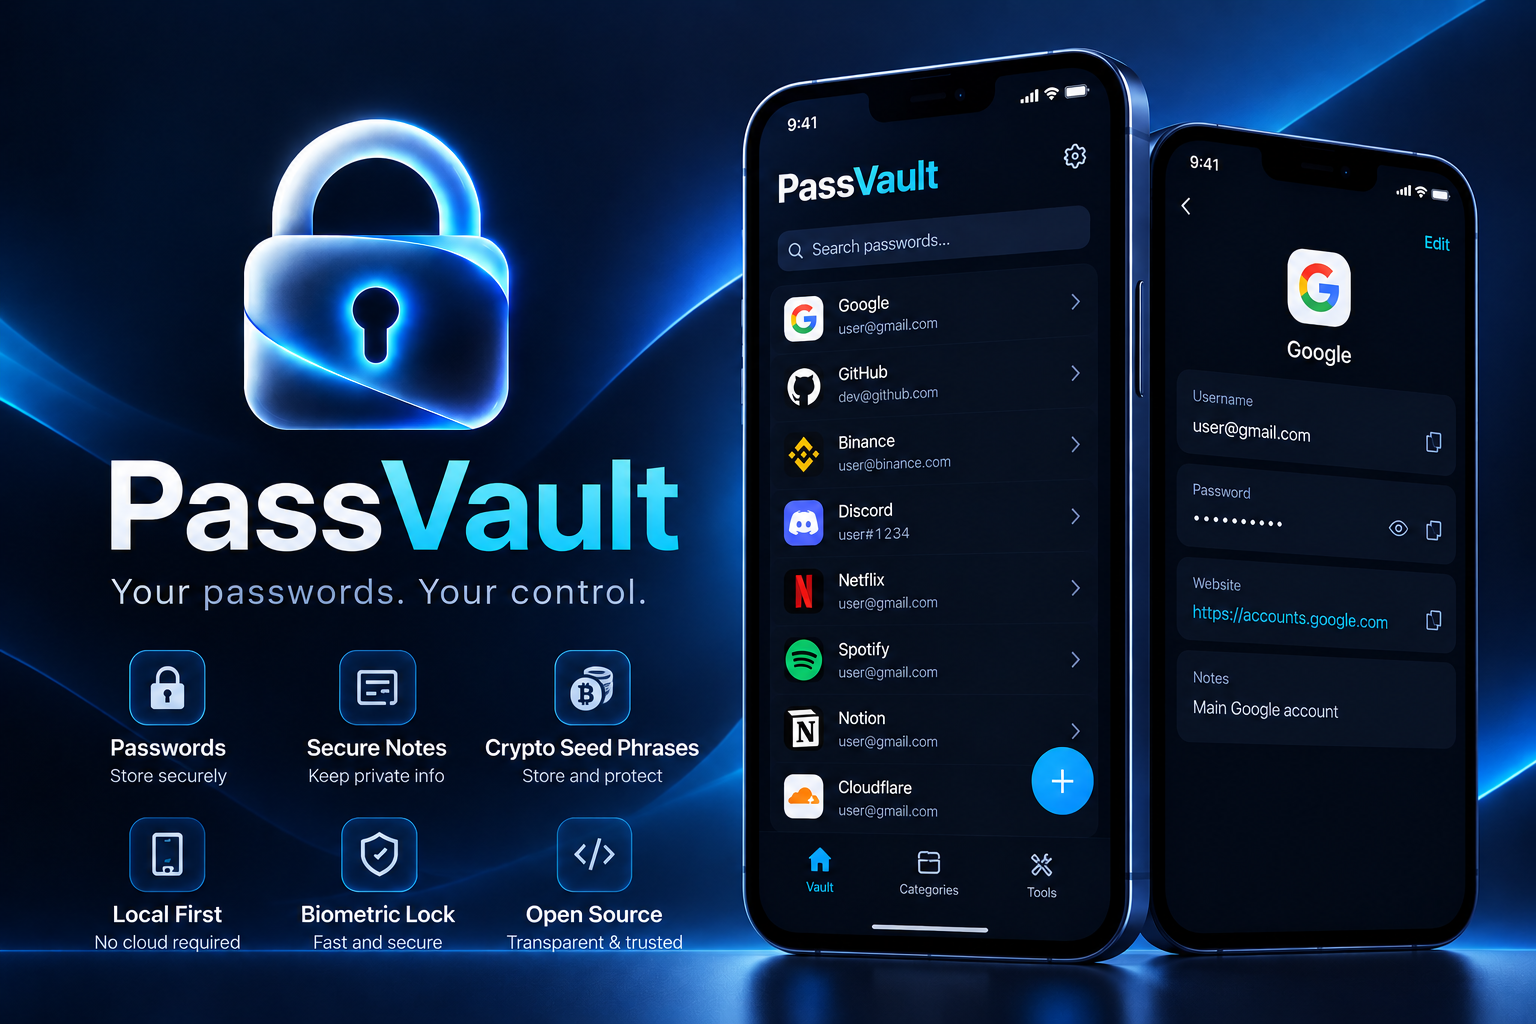
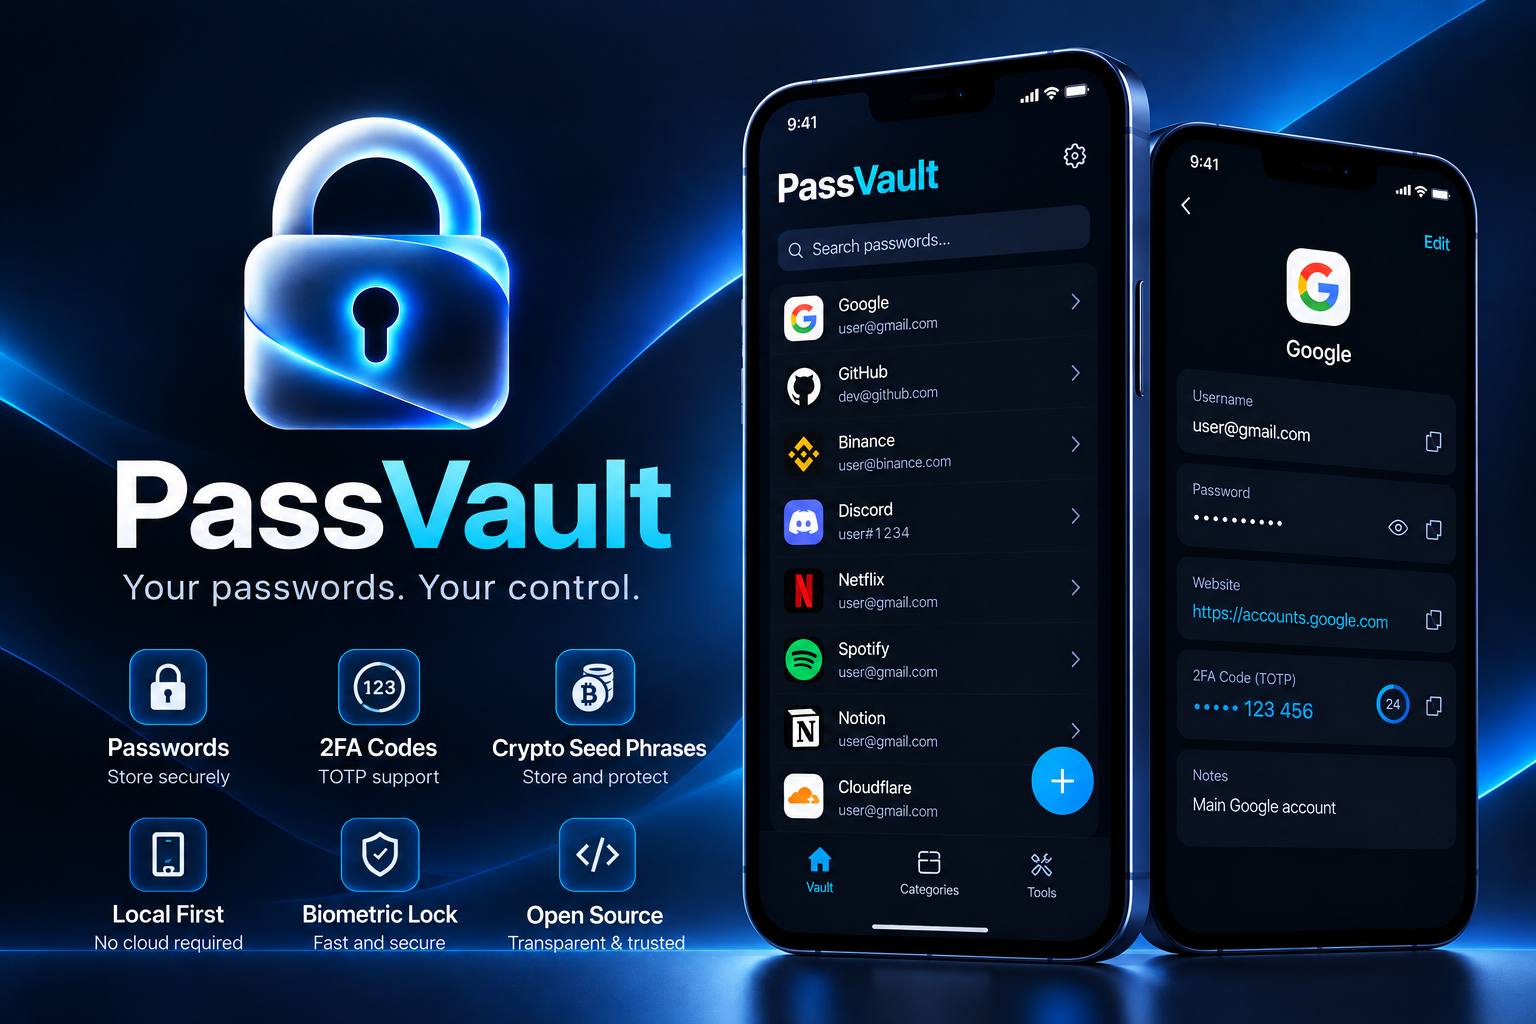
Update README for 2FA (#10)

diff --git a/README.md b/README.md
@@ -37,7 +37,7 @@ No account · No server · No analytics · No cloud sync
 
 ## 📑 Contents
 
-[✨ Features](#-features) · [📥 Download](#-download-android) · [🍎 Build for iOS](#-build-for-ios) · [🤖 Build for Android](#-build-for-android) · [🚚 Moving your passwords in](#-moving-your-passwords-in) · [🛡 Security checks](#%EF%B8%8F-security-checks) · [✅ Project status](#-project-status)
+[✨ Features](#-features) · [📥 Download](#-download-android) · [🍎 Build for iOS](#-build-for-ios) · [🤖 Build for Android](#-build-for-android) · [🚚 Moving your passwords in](#-moving-your-passwords-in) · [🔢 Adding 2FA codes](#-adding-2fa-codes) · [🛡 Security checks](#%EF%B8%8F-security-checks) · [✅ Project status](#-project-status)
 
 ---
 
@@ -66,8 +66,9 @@ The dotted "never connects" line is deliberate: PassVault has no network feature
 | 🗄 **Encrypted on your device** | Every record is encrypted and stored locally. Nothing is ever uploaded. |
 | 🔎 **Find things fast** | Search, star your favorites, and organize records into groups. |
 | 📝 **Flexible records** | Add several usernames, passwords and notes to one record, plus security question-and-answer pairs, in the order you want. Secrets stay hidden until you reveal them. |
+| 🔢 **2FA authenticator** | Built-in time-based one-time codes (TOTP), like Google Authenticator. Add an account by scanning the site's QR code with the camera, reading it from a screenshot, or typing the setup key. Codes are generated offline on your phone. |
 | 🎲 **Password generator** | Create strong passwords with adjustable length and character types. |
-| 📤 **Backup and restore** | Export as CSV or as an encrypted file, and import them back after confirming. Exporting asks for your password first. |
+| 📤 **Backup and restore** | Export as CSV or as an encrypted file, and import them back after confirming. Exporting asks for your password first. 2FA setup keys (and seed phrases) are only ever included in the encrypted file, never in CSV. |
 | 🔄 **Change master password** | Update it any time from settings. |
 | 📋 **Careful clipboard** | Copied passwords are handled with care so they don't linger. |
 
@@ -198,6 +199,27 @@ flowchart TD
 
 ---
 
+## 🔢 Adding 2FA codes
+
+Open the **2FA** tab and tap **Add 2FA code**, then either:
+
+- **Scan QR code**: point the camera at the QR code the site shows when you turn on two-factor authentication.
+- **From image**: pick a screenshot of that QR code. Handy when the setup page is open on the same phone.
+- **Type the setup key**: the Base32 key sites show next to the QR code. Most sites use the defaults (SHA1, 6 digits, 30 seconds); change them under *Advanced* only if the site says so.
+
+Check that the code shown matches what the site expects, then save. Tap a code in the list to copy it.
+
+**Coming from Google Authenticator?** In Google Authenticator choose **Transfer accounts → Export accounts**, then scan its QR code in PassVault. All of its accounts are added at once; accounts already in your vault are skipped. If the export shows several QR codes, scan each one. Counter-based (HOTP) accounts aren't supported.
+
+**Good to know**
+
+- QR codes are read on the device. The camera is only used while you scan, and PassVault still has no internet access.
+- The setup key can be revealed to check it, but it can't be copied from the app.
+- Setup keys are part of the encrypted vault, so **encrypted backups** include them and restore them on either platform. CSV exports never do.
+- Keep an encrypted backup. If you lose your phone without one, you'll need each site's recovery codes to get back in.
+
+---
+
 ## 🛡 Security checks
 
 The portable Swift core can be tested without full Xcode:
@@ -221,11 +243,11 @@ With full Xcode you can also run `swift test --package-path ios`. Build tools ne
 
 **Verified so far**
 
-- ✔ The Swift core compiles, and **95 standalone security and migration checks pass**, including the supplied CSV.
-- ✔ The iOS UI source passes Swift syntax parsing.
+- ✔ The Swift core compiles, and **180 standalone security and migration checks pass**, including the supplied CSV and the 2FA code tests (RFC 6238 test vectors, QR link parsing, Google Authenticator exports).
+- ✔ Android unit tests pass (CSV, backups, Password Keeper import, 2FA), and the debug and release builds succeed.
+- ✔ The iOS UI source type-checks (via Mac Catalyst).
 
 **Not yet verified** (release blockers, not proof that the apps pass)
 
-- ⏳ Android CSV/schema unit tests exist but haven't been run.
-- ⏳ Full mobile builds, native UI type checking and biometric behavior.
+- ⏳ Full iOS build in Xcode, on-device UI testing (including camera QR scanning) and biometric behavior.
 - ⏳ XCTest, which was unavailable on the development Mac (no full Xcode, Android SDK or JDK at first).
